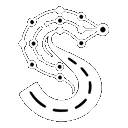
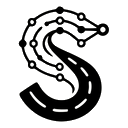
feat(welcome): welcome-view + roadmap conversation link, branding refresh
WIP snapshot committed to clean the tree before integrating the remote
branch (parallel session work — welcome view, 'help shape the roadmap'
links in chat/welcome, website header/footer/icon branding).

Changed region(s): [[0.125, 0.0312, 0.875, 0.9688]]

diff --git a/webview-ui/src/components/welcome/WelcomeViewProvider.tsx b/webview-ui/src/components/welcome/WelcomeViewProvider.tsx
@@ -12,14 +12,13 @@ import { cn } from "@src/lib/utils"
 import ApiOptions from "../settings/ApiOptions"
 import { Tab, TabContent } from "../common/Tab"
 
-import { DiscordIcon, RedditIcon } from "../common/BrandIcons"
+import { DiscordIcon, RedditIcon, XIcon } from "../common/BrandIcons"
 import ShoferHero from "./ShoferHero"
 import { Trans } from "react-i18next"
 import {
 	ArrowLeft,
 	ArrowRight,
 	Github,
-	Globe,
 	GraduationCap,
 	Heart,
 	KeyRound,
@@ -178,41 +177,57 @@ const WelcomeViewProvider = ({ onClose }: { onClose?: () => void }) => {
 						</button>
 					</div>
 
-					{/* External links: website, GitHub star, Marketplace rating, sponsor. */}
-					<div className="absolute bottom-5 right-5 flex items-center gap-2">
-						<span className="text-xs text-vscode-descriptionForeground">
-							{t("welcome:links.encourage")}
-						</span>
-						<div className="flex items-center gap-0.5">
-							{[
-							{ icon: Globe, url: "https://shofer.dev/", label: t("welcome:links.website") },
-							{
-								icon: Github,
-								url: "https://github.com/shofer-dev/shofer",
-								label: t("welcome:links.starGithub"),
-							},
-							{
-								icon: Store,
-								url: "https://marketplace.visualstudio.com/items?itemName=shoferdev.shofer",
-								label: t("welcome:links.starMarketplace"),
-							},
-							{ icon: DiscordIcon, url: "https://discord.gg/shofer", label: t("welcome:links.discord") },
-							{ icon: RedditIcon, url: "https://www.reddit.com/r/Shofer_dev/", label: t("welcome:links.reddit") },
-							{
-								icon: Heart,
-								url: "https://github.com/sponsors/alsterg",
-								label: t("welcome:links.sponsor"),
-							},
-						].map(({ icon: Icon, url, label }) => (
-							<button
-								key={url}
-								title={label}
-								aria-label={label}
-								onClick={() => vscode.postMessage({ type: "openExternal", url })}
-								className="inline-flex size-7 cursor-pointer items-center justify-center rounded-md border-none bg-transparent text-vscode-descriptionForeground hover:bg-[rgba(255,255,255,0.07)] hover:text-vscode-foreground">
-								<Icon className="size-4" />
-							</button>
-						))}
+					{/* External links: GitHub star, Marketplace rating, sponsor (row 1); Discord, Reddit, X (row 2). */}
+					<div className="absolute bottom-5 right-5 flex flex-col items-end gap-1.5">
+						<div className="flex items-center gap-2">
+							<span className="text-xs text-vscode-descriptionForeground">
+								{t("welcome:links.encourage")}
+							</span>
+							<div className="flex items-center gap-0.5">
+								{[
+								{ icon: Github, url: "https://github.com/shofer-dev/shofer", label: t("welcome:links.starGithub") },
+								{
+									icon: Store,
+									url: "https://marketplace.visualstudio.com/items?itemName=shoferdev.shofer",
+									label: t("welcome:links.starMarketplace"),
+								},
+								{
+									icon: Heart,
+									url: "https://github.com/sponsors/alsterg",
+									label: t("welcome:links.sponsor"),
+								},
+							].map(({ icon: Icon, url, label }) => (
+								<button
+									key={url}
+									title={label}
+									aria-label={label}
+									onClick={() => vscode.postMessage({ type: "openExternal", url })}
+									className="inline-flex size-7 cursor-pointer items-center justify-center rounded-md border-none bg-transparent text-vscode-descriptionForeground hover:bg-[rgba(255,255,255,0.07)] hover:text-vscode-foreground">
+									<Icon className="size-4" />
+								</button>
+							))}
+							</div>
+						</div>
+						<div className="flex items-center gap-2">
+							<span className="text-xs text-vscode-descriptionForeground">
+								{t("welcome:links.conversationMessage")}
+							</span>
+							<div className="flex items-center gap-0.5">
+								{[
+								{ icon: DiscordIcon, url: "https://discord.gg/shofer", label: t("welcome:links.discord") },
+								{ icon: RedditIcon, url: "https://www.reddit.com/r/Shofer_dev/", label: t("welcome:links.reddit") },
+								{ icon: XIcon, url: "https://x.com/", label: t("welcome:links.x") },
+							].map(({ icon: Icon, url, label }) => (
+								<button
+									key={url}
+									title={label}
+									aria-label={label}
+									onClick={() => vscode.postMessage({ type: "openExternal", url })}
+									className="inline-flex size-7 cursor-pointer items-center justify-center rounded-md border-none bg-transparent text-vscode-descriptionForeground hover:bg-[rgba(255,255,255,0.07)] hover:text-vscode-foreground">
+									<Icon className="size-4" />
+								</button>
+							))}
+							</div>
 						</div>
 					</div>
 				</TabContent>

diff --git a/webview-ui/src/components/chat/ChatView.tsx b/webview-ui/src/components/chat/ChatView.tsx
@@ -22,7 +22,7 @@ import { escapeSpaces } from "@src/utils/path-mentions"
 
 import { Heart, Star, Store } from "lucide-react"
 
-import { DiscordIcon, RedditIcon } from "@src/components/common/BrandIcons"
+import { DiscordIcon, RedditIcon, XIcon } from "@src/components/common/BrandIcons"
 
 import { vscode } from "@src/utils/vscode"
 import { type DroppedContextFile, extractUriPayload, parseDroppedUris } from "@src/utils/droppedContextFiles"
@@ -2193,6 +2193,26 @@ const ChatViewComponent: React.ForwardRefRenderFunction<ChatViewRef, ChatViewPro
 													label: t("chat:supportLinks.marketplace"),
 												},
 												{
+													icon: Heart,
+													url: "https://github.com/sponsors/alsterg",
+													label: t("chat:supportLinks.sponsor"),
+												},
+											].map(({ icon: Icon, url, label }) => (
+												<button
+													key={url}
+													onClick={() => vscode.postMessage({ type: "openExternal", url })}
+													className="inline-flex cursor-pointer items-center gap-1 border-none bg-transparent p-0 text-xs font-medium text-vscode-textLink-foreground hover:underline">
+													<Icon className="size-3.5" />
+													{label}
+												</button>
+											))}
+										</div>
+										<div className="mt-2 text-xs text-vscode-descriptionForeground">
+											{t("chat:supportLinks.conversationMessage")}
+										</div>
+										<div className="flex flex-wrap items-center gap-x-4 gap-y-1">
+											{[
+												{
 													icon: DiscordIcon,
 													url: "https://discord.gg/shofer",
 													label: t("chat:supportLinks.discord"),
@@ -2203,9 +2223,9 @@ const ChatViewComponent: React.ForwardRefRenderFunction<ChatViewRef, ChatViewPro
 													label: t("chat:supportLinks.reddit"),
 												},
 												{
-													icon: Heart,
-													url: "https://github.com/sponsors/alsterg",
-													label: t("chat:supportLinks.sponsor"),
+													icon: XIcon,
+													url: "https://x.com/",
+													label: t("chat:supportLinks.x"),
 												},
 											].map(({ icon: Icon, url, label }) => (
 												<button